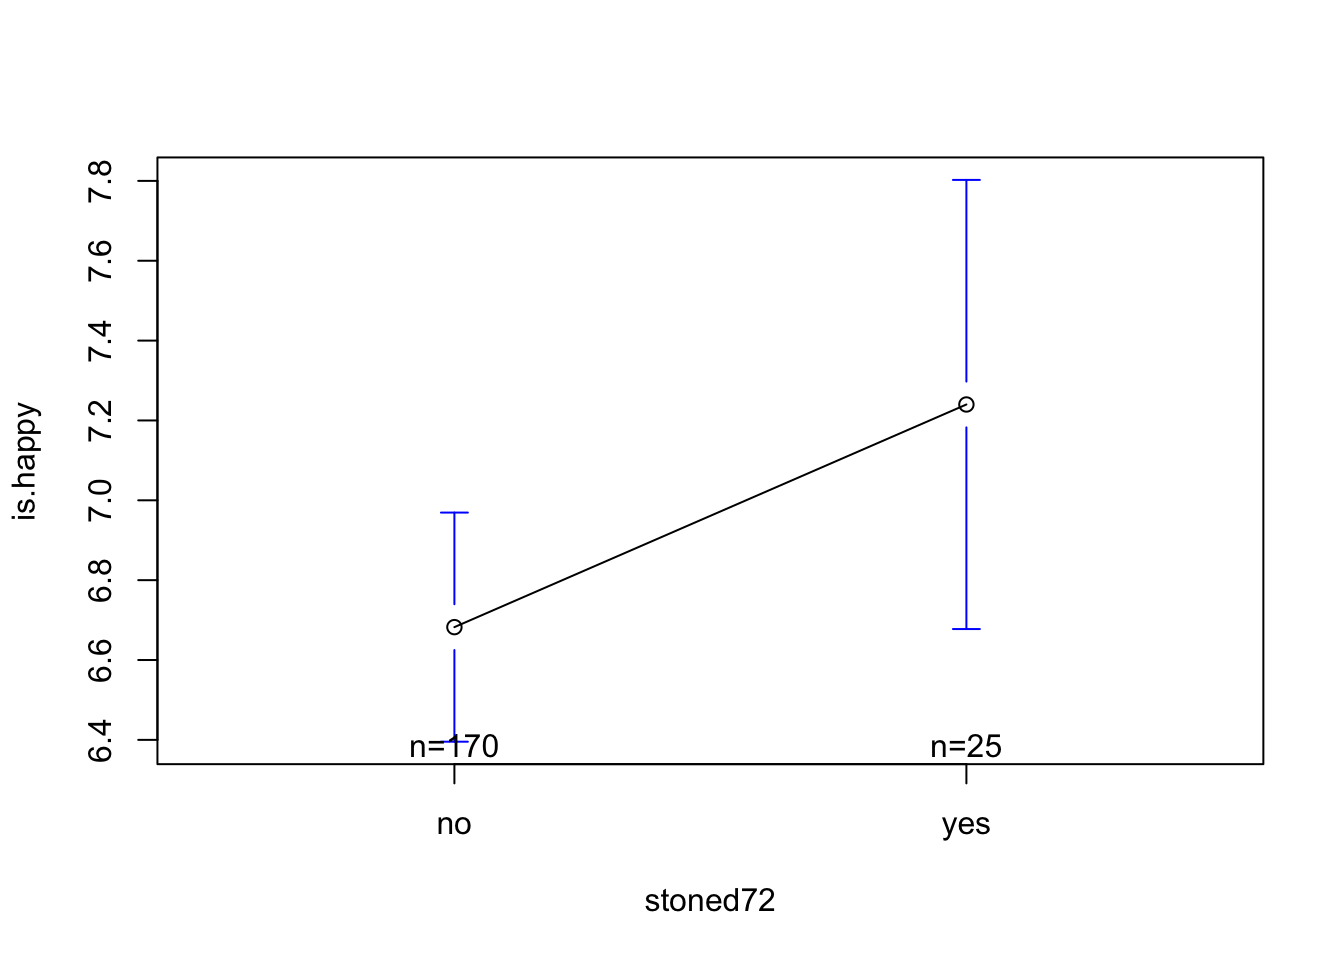
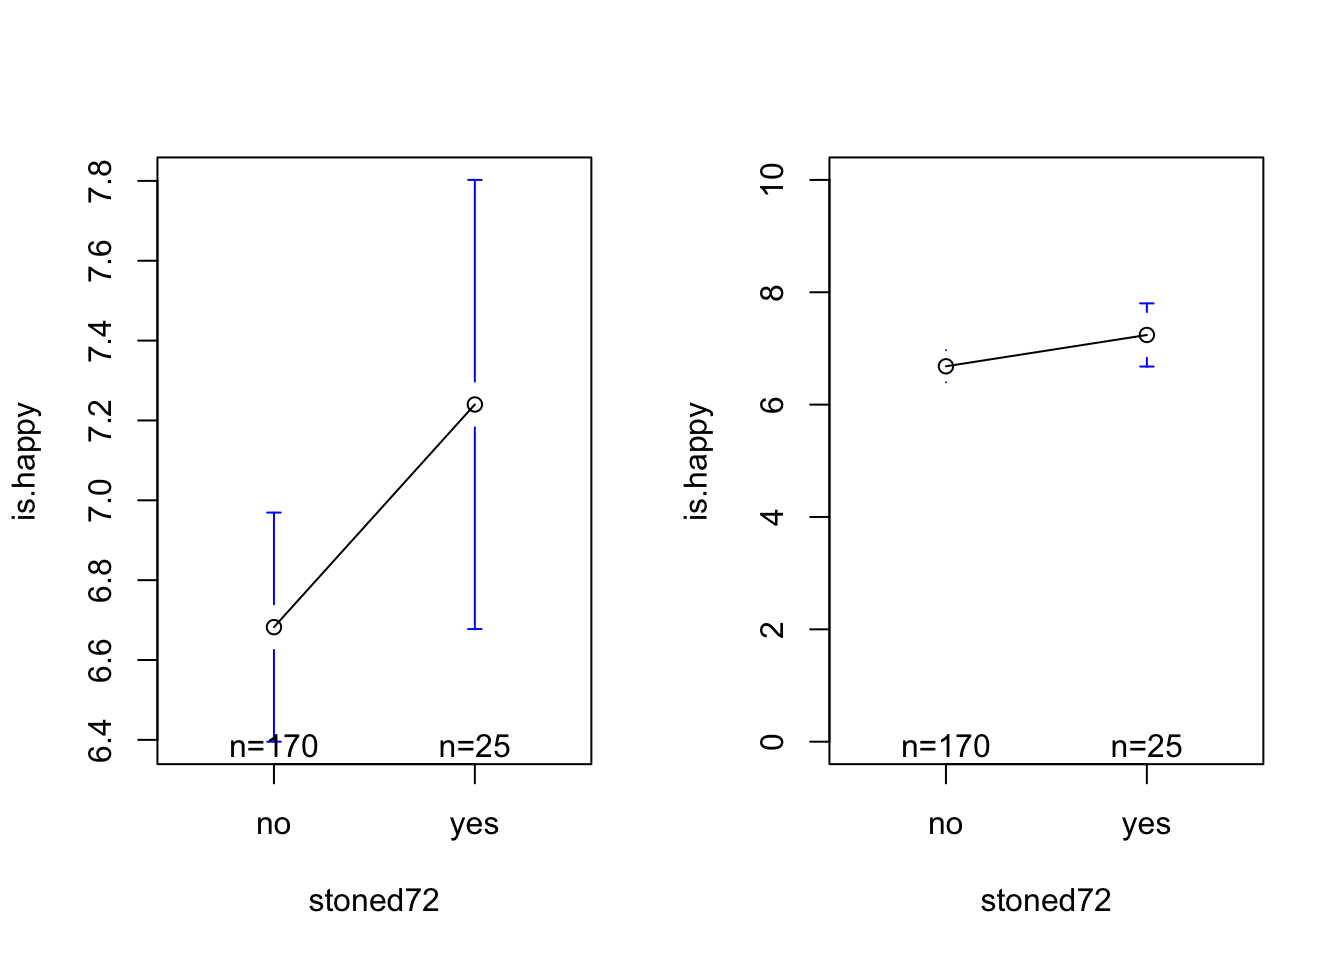
postL7101

diff --git a/docs/calstats/Lectures/7_CatModels.html b/docs/calstats/Lectures/7_CatModels.html
@@ -204,11 +204,39 @@ window.Quarto = {
 <ul>
 <li><strong>DISCUSS :</strong> <strong>what do these linear models tell us about the relationship between GPA, SAT (IVs) and freshman grades (DV)?</strong>
 <ul>
-<li>answers.</li>
-<li>go.</li>
-<li>here.</li>
+<li>freshman grades ~ HS GPA + error
+<ul>
+<li>slope = .39</li>
+<li>R^2 = .16</li>
+</ul></li>
+<li>freshman grades ~ SAT + error
+<ul>
+<li>slope = .46</li>
+<li>R^2 = .21</li>
+</ul></li>
+<li>these are relatively large effects in psychology. ONE THING predicts ANOTHER 15-20%!!!!</li>
+<li>SAT is a “BETTER” predictor of UC Freshman GPA (higher slope; higher R^2 value.)</li>
+<li>WHY SHOULD WE NOT TRUST THIS / LET THIS BE THE END????
+<ul>
+<li>Where are the data from??? [ALL UC students]</li>
+<li>SAT may not be the best measure of knowledge.
+<ul>
+<li>EXAMPLE : could focus on quality of projects; work experience; life experience (qualitative essay / “are you happy”)</li>
+</ul></li>
+<li>THE POINT : SAT can also be a reflection of how much MONEY you have.
+<ul>
+<li>EXAMPLES : money could help you buy sat tutors, private proctoring to help you cheat, pay to take it more than once, just livin’ off that allowance your parents give you and time to study all summer.</li>
+<li>WHO CARES :
+<ul>
+<li>people who may not have the means to pay to do well on the SAT migth be denied entry into an institution that, in theory, is meant to help them increase their ability to succeed.</li>
+<li>if you have money to do well on the SAT, then you also have the same resources to succeed in college (live on campus so not commuting / working multiple jobs; pay for a tutor; see your family when you want to)</li>
+</ul></li>
+</ul></li>
+</ul></li>
 </ul></li>
 </ul>
+<p>0———————.3————–.5————————————1.00<br>
+(average!!!)</p>
 </section>
 <section id="when-the-iv-is-categorical" class="level2">
 <h2 class="anchored" data-anchor-id="when-the-iv-is-categorical">When the IV is Categorical…</h2>
@@ -271,7 +299,17 @@ Attaching package: 'gplots'</code></pre>
 
     lowess</code></pre>
 </div>
-<div class="sourceCode cell-code" id="cb10"><pre class="sourceCode r code-with-copy"><code class="sourceCode r"><span id="cb10-1"><a href="#cb10-1" aria-hidden="true" tabindex="-1"></a><span class="fu">plotmeans</span>(is.happy <span class="sc">~</span> stoned72, <span class="at">data =</span> d)</span></code><button title="Copy to Clipboard" class="code-copy-button"><i class="bi"></i></button></pre></div>
+<div class="sourceCode cell-code" id="cb10"><pre class="sourceCode r code-with-copy"><code class="sourceCode r"><span id="cb10-1"><a href="#cb10-1" aria-hidden="true" tabindex="-1"></a><span class="fu">par</span>(<span class="at">mfrow =</span> <span class="fu">c</span>(<span class="dv">1</span>,<span class="dv">2</span>))</span>
+<span id="cb10-2"><a href="#cb10-2" aria-hidden="true" tabindex="-1"></a><span class="fu">plotmeans</span>(is.happy <span class="sc">~</span> stoned72, <span class="at">data =</span> d)</span>
+<span id="cb10-3"><a href="#cb10-3" aria-hidden="true" tabindex="-1"></a><span class="fu">plotmeans</span>(is.happy <span class="sc">~</span> stoned72, <span class="at">data =</span> d, <span class="at">ylim =</span> <span class="fu">c</span>(<span class="dv">0</span>,<span class="dv">10</span>))</span></code><button title="Copy to Clipboard" class="code-copy-button"><i class="bi"></i></button></pre></div>
+<div class="cell-output cell-output-stderr">
+<pre><code>Warning in arrows(x, li, x, pmax(y - gap, li), col = barcol, lwd = lwd, :
+zero-length arrow is of indeterminate angle and so skipped</code></pre>
+</div>
+<div class="cell-output cell-output-stderr">
+<pre><code>Warning in arrows(x, ui, x, pmin(y + gap, ui), col = barcol, lwd = lwd, :
+zero-length arrow is of indeterminate angle and so skipped</code></pre>
+</div>
 <div class="cell-output-display">
 <div>
 <figure class="figure">
@@ -279,29 +317,42 @@ Attaching package: 'gplots'</code></pre>
 </figure>
 </div>
 </div>
-<div class="sourceCode cell-code" id="cb11"><pre class="sourceCode r code-with-copy"><code class="sourceCode r"><span id="cb11-1"><a href="#cb11-1" aria-hidden="true" tabindex="-1"></a><span class="fu">coef</span>(mod)</span></code><button title="Copy to Clipboard" class="code-copy-button"><i class="bi"></i></button></pre></div>
+<div class="sourceCode cell-code" id="cb13"><pre class="sourceCode r code-with-copy"><code class="sourceCode r"><span id="cb13-1"><a href="#cb13-1" aria-hidden="true" tabindex="-1"></a><span class="fu">coef</span>(mod)</span></code><button title="Copy to Clipboard" class="code-copy-button"><i class="bi"></i></button></pre></div>
 <div class="cell-output cell-output-stdout">
 <pre><code>(Intercept) stoned72yes 
   6.6823529   0.5576471 </code></pre>
 </div>
-<div class="sourceCode cell-code" id="cb13"><pre class="sourceCode r code-with-copy"><code class="sourceCode r"><span id="cb13-1"><a href="#cb13-1" aria-hidden="true" tabindex="-1"></a><span class="fu">summary</span>(mod)<span class="sc">$</span>r.squared</span></code><button title="Copy to Clipboard" class="code-copy-button"><i class="bi"></i></button></pre></div>
+<div class="sourceCode cell-code" id="cb15"><pre class="sourceCode r code-with-copy"><code class="sourceCode r"><span id="cb15-1"><a href="#cb15-1" aria-hidden="true" tabindex="-1"></a><span class="fu">summary</span>(mod)<span class="sc">$</span>r.squared</span></code><button title="Copy to Clipboard" class="code-copy-button"><i class="bi"></i></button></pre></div>
 <div class="cell-output cell-output-stdout">
 <pre><code>[1] 0.01029735</code></pre>
 </div>
 </div>
 <ul>
-<li>The IV has been DUMMY CODED.
+<li><p>DISCUSS : what do we see on this graph? What makes sense / is confusing?????</p>
+<ul>
+<li>people who were stoned are higher in happiness (b = .557)</li>
+<li>there are more nos than yesses (n = sample size for each group; and sampling error bars give a hint.)</li>
+<li>the graph magnifies the difference….good to give it some context (if not a z-score, then the full range of the scale!)</li>
+<li>OTHER QUSTIONS WE MIGHT HAVE :
+<ul>
+<li>what are those tie-figher looking bars (b-wing???) [sampling error]</li>
+<li>are there differneces in people who were honest about weed usage and those who were not?</li>
+</ul></li>
+</ul></li>
+<li><p>OUR EQUATION : happiness = 6.68 + .55 * stoned72YES</p>
+<pre><code>6.6823529   0.5576471 </code></pre></li>
+<li><p>The IV has been DUMMY CODED.</p>
 <ul>
 <li>when stoned72 = 0 = “No” (Or not “Yes”)</li>
 <li>when stoned72 = 1 = “Yes”</li>
 </ul></li>
-<li>The Intercept is : The Predicted Value of Y when all X-Values are Zero.
+<li><p>The Intercept is : The Predicted Value of Y when all X-Values are Zero.</p>
 <ul>
-<li>this means :</li>
+<li>this means : happiness for someone who’s X value is NOT stoned</li>
 </ul></li>
-<li>The Slope is : How our Predicted Value of Y changes when X changes by one.
+<li><p>The Slope is : How our Predicted Value of Y changes when X changes by one.</p>
 <ul>
-<li>this means :</li>
+<li>this means : if someone IS stoned, we adjust that prediction by .55 points up.</li>
 </ul></li>
 </ul>
 </section>
@@ -310,17 +361,40 @@ Attaching package: 'gplots'</code></pre>
 <ul>
 <li><strong>Stat Stuff : What are the important numbers?</strong>
 <ul>
-<li>What is the relationship?</li>
-<li>How strong is this relationship?</li>
+<li>What is the relationship?
+<ul>
+<li>people who used weed were more happy (b = .55) than those who ddi not.</li>
+</ul></li>
+<li>How strong is this relationship?
+<ul>
+<li>not very strong! R^2 = .01 = smoking weed (or not) explains 1% of variation in people’s happiness.</li>
+</ul></li>
 </ul></li>
 <li><strong>Brain Stuff : What’s the point?</strong>
 <ul>
-<li><u>Why</u> does this relationship in the data exist?</li>
+<li><u>Why</u> does this relationship in the data exist?
+<ul>
+<li>CAUSAL :
+<ul>
+<li>weed is a drug and that drug, like most drugs, makes people feel good (at least in the short term) / feeling creative, especially when it’s not criminalizd so you don’t hae to worry about that sound you just heard at the door, omg is someone out there….not gonna look whoa what time is it…..</li>
+</ul></li>
+<li>REVERSE CAUSATION : people who are higher in happiness are more likely to say they use wed?</li>
+<li>THIRD VARIABLE :
+<ul>
+<li>people are using weed in social situations, and it’s the “hanging out with friends while not stressing about class” part of the experience that is relevant to happiness, and not the drug.</li>
+<li>maybe it’s about pain management</li>
+<li>when people are thinking about using the drug, it’s activating positive memories of relaxing…but not really about the drug itself.</li>
+</ul></li>
+<li>CHANCE.</li>
+</ul></li>
 <li><u>What other questions</u> might we ask?</li>
 <li><u>Who cares</u> about this relationship? (How could we use this knowledge)?</li>
 </ul></li>
 </ul>
 </section>
+</section>
+<section id="break-time-meet-back-in-thirteen-minutes" class="level1">
+<h1>BREAK TIME : MEET BACK IN THIRTEEN MINUTES!!!!!</h1>
 <section id="work-time." class="level3">
 <h3 class="anchored" data-anchor-id="work-time.">Work Time.</h3>
 <p><strong>Define another linear model to predict a numeric DV from a categorical IV (with 2 levels.)</strong></p>
@@ -330,7 +404,6 @@ Attaching package: 'gplots'</code></pre>
 <ul>
 <li>Student Example :</li>
 </ul>
-</section>
 </section>
 <section id="break-time." class="level2">
 <h2 class="anchored" data-anchor-id="break-time.">BREAK TIME.</h2>
@@ -373,6 +446,7 @@ Attaching package: 'gplots'</code></pre>
 <h2 class="anchored" data-anchor-id="all-done-yay.">ALL DONE! YAY.</h2>
 
 
+</section>
 </section>
 
 </main> <!-- /main -->
